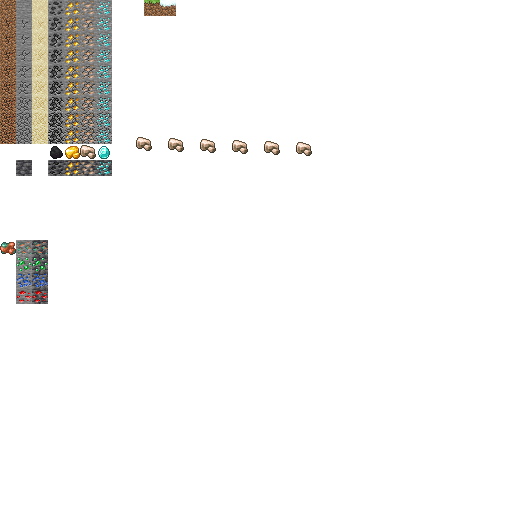
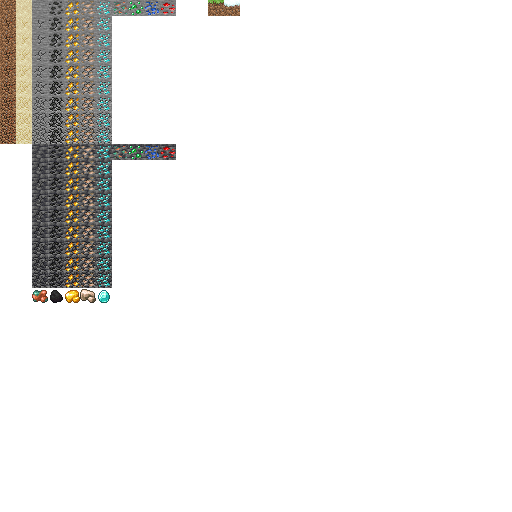
SpriteFrames

Changed region(s): [[0.0, 0.0, 0.625, 0.5938], [0.2188, 0.0, 0.3438, 0.0312], [0.4062, 0.0, 0.4688, 0.0312]]

diff --git a/res/resources.go b/res/resources.go
@@ -9,7 +9,6 @@ import (
 	"kar/engine/cm"
 	"kar/engine/displayres"
 	"kar/engine/io"
-	"kar/engine/util"
 	"kar/engine/vec"
 	"kar/items"
 	"kar/types"
@@ -51,22 +50,20 @@ var (
 )
 
 var (
-	AtlasPlayer = io.LoadEbitenImageFromFS(assets, "assets/player.png")
-	AtlasBlock  = io.LoadEbitenImageFromFS(assets, "assets/blocks.png")
-	// RawIron     = util.SubImage(AtlasBlock, 80, 144, 16, 16)
-	// BlockFrames = make(map[types.ItemType][]*ebiten.Image)
-	BlockFrames = make(map[types.ItemType][]*ebiten.Image)
-)
-
-var (
-	World               donburi.World = donburi.NewWorld()
-	Space               *cm.Space     = cm.NewSpace()
-	Camera              *engine.Camera
-	CurrentItem         types.ItemType
-	Input               *engine.InputManager = &engine.InputManager{}
-	FilterBombRaycast   cm.ShapeFilter       = cm.NewShapeFilter(0, BitmaskBombRaycast, cm.AllCategories&^BitmaskBomb)
-	FilterPlayerRaycast cm.ShapeFilter       = cm.NewShapeFilter(0, BitmaskPlayerRaycast, cm.AllCategories&^BitmaskPlayer)
-	DamageGradient, _                        = colorgrad.NewGradient().
+	World             donburi.World = donburi.NewWorld()
+	Space             *cm.Space     = cm.NewSpace()
+	Camera            *engine.Camera
+	CurrentItem       types.ItemType
+	Input             *engine.InputManager = &engine.InputManager{}
+	FilterBombRaycast cm.ShapeFilter       = cm.NewShapeFilter(
+		0,
+		BitmaskBombRaycast,
+		cm.AllCategories&^BitmaskBomb)
+	FilterPlayerRaycast cm.ShapeFilter = cm.NewShapeFilter(
+		0,
+		BitmaskPlayerRaycast,
+		cm.AllCategories&^BitmaskPlayer)
+	DamageGradient, _ = colorgrad.NewGradient().
 				HtmlColors("rgb(255, 0, 0)", "rgb(255, 225, 0)", "rgb(111, 111, 111)").
 				Domain(0, 1).
 				Mode(colorgrad.BlendOklab).
@@ -112,8 +109,5 @@ var (
 )
 
 func init() {
-	BlockFrames[items.Dirt] = util.SubImages(AtlasBlock, 0, 0, 16, 16, 9, true)
-	BlockFrames[items.Stone] = util.SubImages(AtlasBlock, 16, 0, 16, 16, 9, true)
-	BlockFrames[items.IronOre] = util.SubImages(AtlasBlock, 80, 0, 16, 16, 9, true)
 	StatsTextOptions.ColorScale.ScaleWithColor(colornames.White)
 }

diff --git a/res/sprites.go b/res/sprites.go
@@ -1,0 +1,38 @@
+package res
+
+import (
+	"kar/engine/io"
+	"kar/engine/util"
+	"kar/items"
+	"kar/types"
+
+	"github.com/hajimehoshi/ebiten/v2"
+)
+
+var (
+	AtlasPlayer  = io.LoadEbitenImageFromFS(assets, "assets/player.png")
+	AtlasBlock   = io.LoadEbitenImageFromFS(assets, "assets/blocks.png")
+	SpriteFrames = make(map[types.ItemType][]*ebiten.Image)
+)
+
+func init() {
+	SpriteFrames[items.Dirt] = util.SubImages(AtlasBlock, 0, 0, 16, 16, 9, true)
+	SpriteFrames[items.Sand] = util.SubImages(AtlasBlock, 16, 0, 16, 16, 9, true)
+	SpriteFrames[items.Stone] = util.SubImages(AtlasBlock, 16*2, 0, 16, 16, 9, true)
+	SpriteFrames[items.CoalOre] = util.SubImages(AtlasBlock, 16*3, 0, 16, 16, 9, true)
+	SpriteFrames[items.GoldOre] = util.SubImages(AtlasBlock, 16*4, 0, 16, 16, 9, true)
+	SpriteFrames[items.IronOre] = util.SubImages(AtlasBlock, 16*5, 0, 16, 16, 9, true)
+	SpriteFrames[items.DiamondOre] = util.SubImages(AtlasBlock, 16*6, 0, 16, 16, 9, true)
+
+	SpriteFrames[items.DeepSlateStone] = util.SubImages(AtlasBlock, 16*2, 144, 16, 16, 9, true)
+	SpriteFrames[items.DeepSlateCoalOre] = util.SubImages(AtlasBlock, 16*3, 144, 16, 16, 9, true)
+	SpriteFrames[items.DeepSlateGoldOre] = util.SubImages(AtlasBlock, 16*4, 144, 16, 16, 9, true)
+	SpriteFrames[items.DeepSlateIronOre] = util.SubImages(AtlasBlock, 16*5, 144, 16, 16, 9, true)
+	SpriteFrames[items.DeepSlateDiamondOre] = util.SubImages(AtlasBlock, 16*6, 144, 16, 16, 9, true)
+
+	SpriteFrames[items.RawCopper] = util.SubImages(AtlasBlock, 16*2, 288, 16, 16, 1, false)
+	SpriteFrames[items.Coal] = util.SubImages(AtlasBlock, 16*3, 288, 16, 16, 1, false)
+	SpriteFrames[items.RawGold] = util.SubImages(AtlasBlock, 16*4, 288, 16, 16, 1, false)
+	SpriteFrames[items.RawIron] = util.SubImages(AtlasBlock, 16*5, 288, 16, 16, 1, false)
+	SpriteFrames[items.Diamond] = util.SubImages(AtlasBlock, 16*6, 288, 16, 16, 1, false)
+}

diff --git a/system/camera.go b/system/camera.go
@@ -74,7 +74,7 @@ func (ds *DrawCameraSystem) Draw(screen *ebiten.Image) {
 
 		health := mathutil.Clamp(healthData.Health, 0, healthData.MaxHealth)
 		blockSpriteFrameIndex := int(mathutil.MapRange(health, healthData.MaxHealth, 0, 0, 8))
-		ds.currentFrame = res.BlockFrames[itemData.Item][blockSpriteFrameIndex]
+		ds.currentFrame = res.SpriteFrames[itemData.Item][blockSpriteFrameIndex]
 
 		ds.dio.GeoM.Reset()
 		ds.dio.GeoM.Translate(drawOpt.CenterOffset.X, drawOpt.CenterOffset.Y)
@@ -87,7 +87,28 @@ func (ds *DrawCameraSystem) Draw(screen *ebiten.Image) {
 			res.Camera.Draw(ds.currentFrame, ds.dio, screen)
 		}
 	})
-	comp.AnimationPlayer.Each(res.World, func(e *donburi.Entry) {
+	comp.DropItemTag.Each(res.World, func(e *donburi.Entry) {
+		pos := comp.Body.Get(e).Position()
+		drawopt := comp.DrawOptions.Get(e)
+		itemData := comp.Item.Get(e)
+
+		scl := drawopt.Scale
+		if drawopt.FlipX {
+			scl.X *= -1
+		}
+
+		ds.dio.GeoM.Reset()
+		ds.dio.GeoM.Translate(drawopt.CenterOffset.X, drawopt.CenterOffset.Y)
+		ds.dio.GeoM.Scale(scl.X, scl.Y)
+		ds.dio.GeoM.Rotate(-drawopt.Rotation)
+		ds.dio.GeoM.Translate(pos.X, pos.Y)
+		res.Camera.Draw(res.SpriteFrames[itemData.Item][0], ds.dio, screen)
+		ds.dio.ColorScale.Reset()
+	})
+
+	e, ok := comp.PlayerTag.First(res.World)
+
+	if ok {
 		pos := comp.Body.Get(e).Position()
 		drawopt := comp.DrawOptions.Get(e)
 		ap := comp.AnimationPlayer.Get(e)
@@ -106,6 +127,6 @@ func (ds *DrawCameraSystem) Draw(screen *ebiten.Image) {
 			res.Camera.Draw(ap.CurrentFrame, ds.dio, screen)
 		}
 		ds.dio.ColorScale.Reset()
-	})
+	}
 
 }

diff --git a/arche/archetypes.go b/arche/archetypes.go
@@ -130,11 +130,39 @@ func SpawnDebug(pos vec.Vec2) {
 	comp.AnimationPlayer.Set(e, ap)
 
 	b := SpawnCircleBody(pos, 0.8, 0.5, 0, 16, e)
-	// b.SetType(cm.BODY_STATIC)
-	// b.FirstShape().Filter = cm.NewShapeFilter(0, res.BitmaskCollectible, cm.AllCategories&^res.BitmaskPlayer&^res.BitmaskPlayerRaycast&^res.BitmaskCollectible)
-	b.FirstShape().Filter = cm.NewShapeFilter(0, res.BitmaskCollectible, cm.AllCategories&^res.BitmaskPlayerRaycast&^res.BitmaskCollectible)
+	b.FirstShape().Filter = cm.NewShapeFilter(
+		0,
+		res.BitmaskCollectible,
+		cm.AllCategories&^res.BitmaskPlayerRaycast&^res.BitmaskCollectible)
 	b.FirstShape().CollisionType = res.CollCollectible
-	// b.FirstShape().SetSensor(true)
+	comp.Body.Set(e, b)
+
+}
+func SpawnItem(pos vec.Vec2, i types.ItemType, chunkCoord image.Point) {
+	e := res.World.Entry(res.World.Create(
+		comp.DrawOptions,
+		comp.Body,
+		comp.Item,
+		comp.DropItemTag,
+	))
+
+	comp.DrawOptions.Set(e, &types.DataDrawOptions{
+		CenterOffset: vec.Vec2{-8, -8},
+		Scale:        vec.Vec2{1, 1},
+	})
+
+	comp.Item.Set(e,
+		&types.DataItem{
+			ChunkCoord: chunkCoord,
+			Item:       i,
+		})
+
+	b := SpawnCircleBody(pos, 0.8, 0.5, 0, 8, e)
+	b.FirstShape().Filter = cm.NewShapeFilter(
+		0,
+		res.BitmaskCollectible,
+		cm.AllCategories&^res.BitmaskPlayerRaycast&^res.BitmaskCollectible)
+	b.FirstShape().CollisionType = res.CollCollectible
 	comp.Body.Set(e, b)
 
 }

diff --git a/system/destroy.go b/system/destroy.go
@@ -37,7 +37,10 @@ func DestroyZeroHealthSetMapBlockState(e *donburi.Entry) {
 		body.FirstShape().SetSensor(true)
 		DestroyEntryWithBody(e)
 		if i.Item == items.IronOre {
-			arche.SpawnDebug(pos)
+			arche.SpawnItem(pos, items.RawIron, Terr.WorldPosToChunkCoord(pos))
+		}
+		if i.Item == items.Dirt {
+			arche.SpawnItem(pos, items.Diamond, Terr.WorldPosToChunkCoord(pos))
 		}
 		blockPos := Terr.WorldSpaceToMapSpace(pos)
 		res.Terrain.SetGray(blockPos.X, blockPos.Y, color.Gray{uint8(items.Air)})

diff --git a/items/items.go b/items/items.go
@@ -5,6 +5,7 @@ import "kar/types"
 const (
 	Air types.ItemType = iota
 	Dirt
+	Sand
 	Stone
 	CoalOre
 	GoldOre
@@ -12,8 +13,10 @@ const (
 	DiamondOre
 
 	Coal
-	RawIron
+	RawCopper
 	RawGold
+	RawIron
+	Diamond
 
 	DeepSlateStone
 	DeepSlateCoalOre
